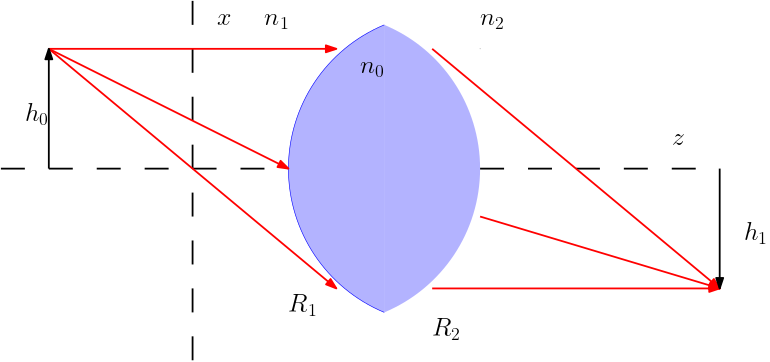
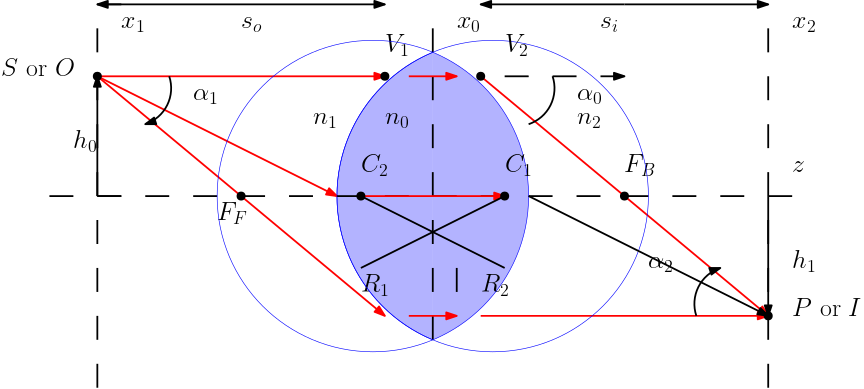
stuck on different sections of hw

diff --git a/hw01sol.tex b/hw01sol.tex
@@ -149,61 +149,55 @@ The thin lens approximations spatial relationships noted in figure \ref{fig:5c} 
 \label{fig:5c}
 \end{figure}
 
-The ray "bundle" referenced in \ref{fig:5d} of a diverging spherical waves emanating from height $h_0$ above the $z$ axis within liquid $1$s index of refraction $n_1$ refract into the thin spherical lens with left curvature $R_1$, index of refraction $n_0$, while traveling as a non perfect collimated beam, before reaching the lens right curvature $R_2$ and refracting into liquid $2$s index of refraction $n_2$ and converging as a spherical wave to height $h_1$ bellow the $z$ axis has the following ray transfer matrix\\
+The a focus of the bundle or rays diverging from point source $S$ referenced in \ref{fig:5d} forms a diverging spherical waves emanating from height $h_0$ above the $z$ axis within liquid $1$s index of refraction $n_1$ refract into the thin spherical lens with left curvature $R_1$, index of refraction $n_0$, while traveling as a non perfect collimated beam, before reaching the lens right curvature $R_2$ and refracting into liquid $2$s index of refraction $n_2$ and converging as a spherical wave to height $h_1$ bellow the $z$ axis at point $P$. The system is said to be stigmatic for points $S$ and $P$ with $P$ referred to as a perfect image of $S$.\\ In an ideal optical system, these conjugate points will be stigmaticlly (perfectly) imaged.
+
+It is important to note that both $\alpha_1$ and $\alpha_2$ are both negative angles due to their clockwise orientation,that $h_1$ is negative due to its down ward orientation bellow the $z$ axis, and that both $R_1>0$ and $R_2>0$ in a Bi convex lens.\\
+
+$V_1$ is the vertex of the surface, and $\bar{}$ The length $s_0$ is know as the object distance, and the \\
+
+The ray transfer matrix between the $n_1$, $n_0$ interface, is defined as\\
 
 \begin{bmatrix}
-    n_{2} \alpha_{2} \\
-    h_{1}
+    n_{0} (-\alpha_{1}) \\
+    (h_{0})
 \end{bmatrix}
 =
 \begin{bmatrix}
-    1   & -\frac{n_{right}-n_{left}}{R} \\
+    1   & -\frac{n_{0}-n_{1}}{R_1} \\
     0   &   1
 \end{bmatrix}
 \begin{bmatrix}
-    1   & -\frac{n_{right}-n_{left}}{R} \\
-    0   &   1
-\end{bmatrix}
-\begin{bmatrix}
-    n_{1} \alpha_{1} \\
+    n_{1} (-\alpha_{1}) \\
     h_{0}
+\end{bmatrix}\\
+
+The ray transfer matrix between the $n_1$, $n_0$ interface, and the $n_0$, $n_2$ interface is defined as\\
+
+\begin{bmatrix}
+    n_{2} (-\alpha_{2}) \\
+    (-h_{1})
 \end{bmatrix}
+=
+\begin{bmatrix}
+    1   & -\frac{n_{2}-n_{0}}{R_2} \\
+    0   &   1
+\end{bmatrix}
+\begin{bmatrix}
+    1   & -\frac{n_{0}-n_{1}}{R_1} \\
+    0   &   1
+\end{bmatrix}
+\begin{bmatrix}
+    n_{1} (-\alpha_{1}) \\
+    h_{0}
+\end{bmatrix}\\
 
 which simplifies to\\
 
-\begin{bmatrix}
-    n_{left}\alpha_{left} \\
-    x_{left}
-\end{bmatrix}
-=
-\begin{bmatrix}
-    1   & -\frac{n_{right}-n_{left}}{R} \\
-    0   &   1
-\end{bmatrix}
-\begin{bmatrix}
-    n_{left}\alpha_{left} \\
-    x_{left}
-\end{bmatrix}\\
-
-and is redefined with focal length $f$ to\\
-
-\begin{bmatrix}
-    n_{left}\alpha_{left} \\
-    x_{left}
-\end{bmatrix}
-=
-\begin{bmatrix}
-    1   & -\frac{n_{right}-n_{left}}{R} \\
-    0   &   1
-\end{bmatrix}
-\begin{bmatrix}
-    n_{left}\alpha_{left} \\
-    x_{left}
-\end{bmatrix}
+Stuck on how to properly add off axis object to matrix form\\
 
 \begin{figure}
 \centering\fbox{\includegraphics[height=2.0in]{figures/hw1_5a.png}}
-\caption{Immersed Bi-convex lens Variables Spatial Relationships}
+\caption{Immersed Bi-convex lens image formation at finite distances variables spatial relationships}
 \label{fig:5d}
 \end{figure}
 
